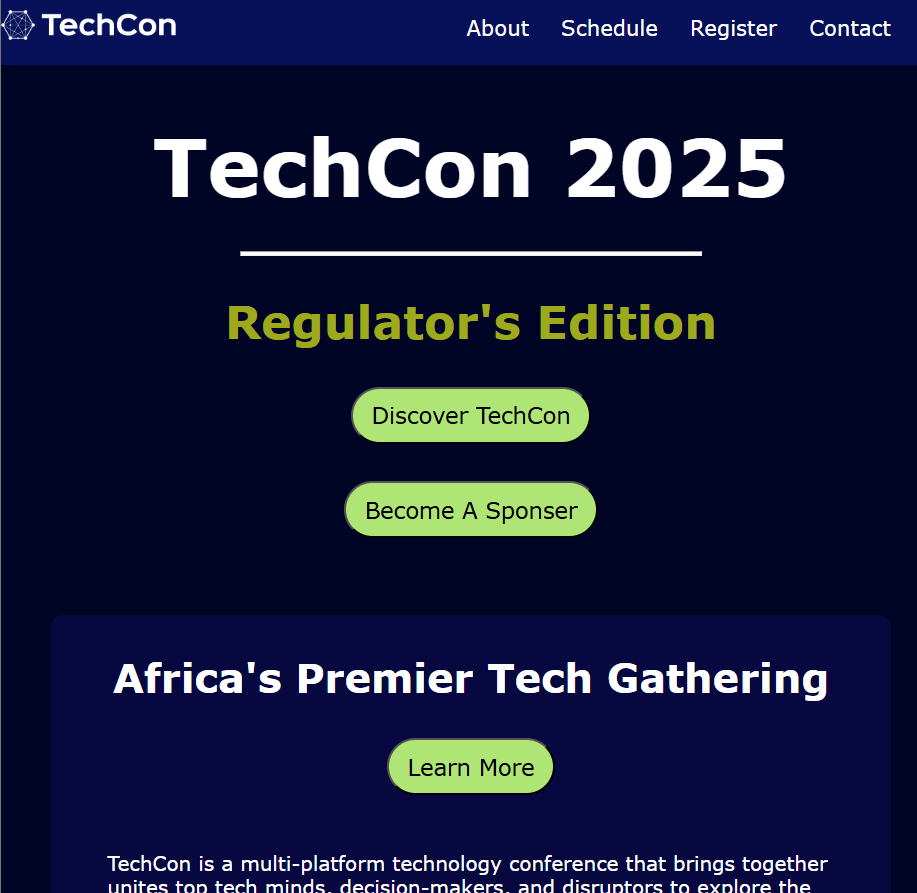
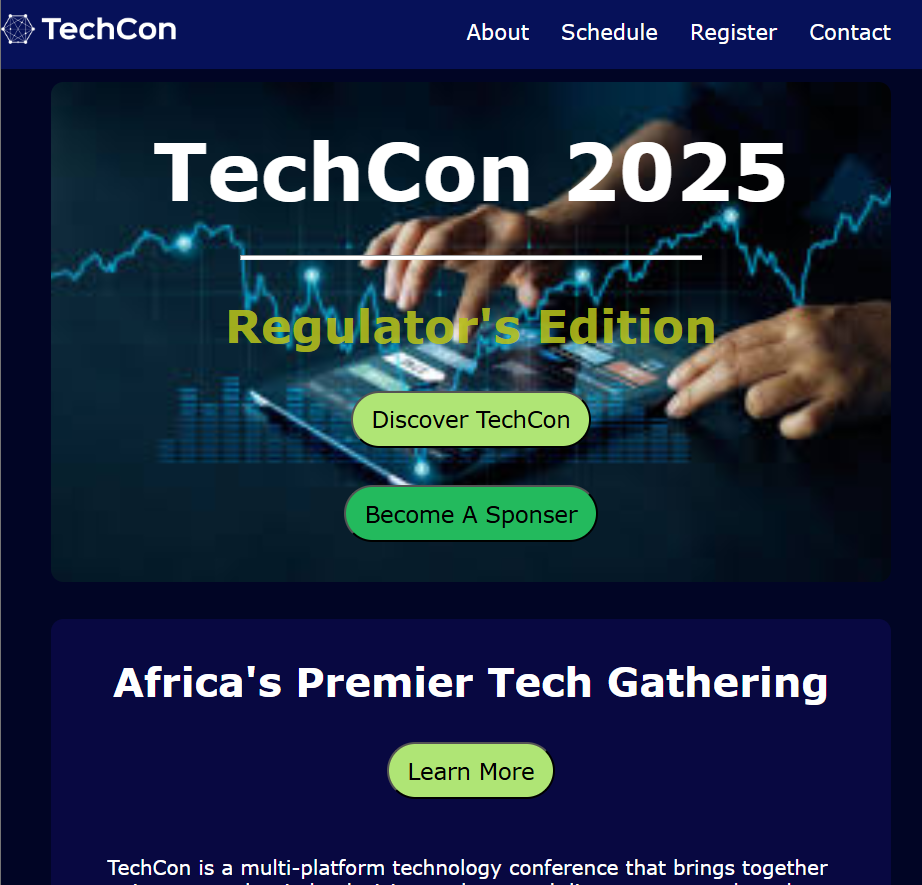
class Removed From Section index.html

diff --git a/techcon_website/vedio.css b/techcon_website/vedio.css
@@ -1,4 +1,4 @@
-.video-section {
+section:nth-child(3) {
             background: linear-gradient(135deg, #1e293b 0%, #334155 100%);
             border-radius: 16px;
             padding: 2.5rem;
@@ -6,7 +6,7 @@
             margin-bottom: 4rem;
         }
         
-        .video-section h2 {
+        section:nth-child(3) h2 {
             text-align: center;
             color: #e2e8f0;
             margin-bottom: 2.5rem;
@@ -14,7 +14,7 @@
             font-weight: 700;
         }
         
-        .video-card {
+         section:nth-child(3) video {
             background: #0f172a;
             border-radius: 12px;
             overflow: hidden;
@@ -22,11 +22,11 @@
             transition: transform 0.3s;
         }
         
-        .video-card:hover {
+         section:nth-child(3) video:hover {
             transform: translateY(-5px);
         }
         
-        .video-section h3 {
+     section:nth-child(3) h3 {
             color: #e2e8f0;
             padding: 20px;
             margin: 20px;

diff --git a/techcon_website/index.html b/techcon_website/index.html
@@ -23,14 +23,14 @@
       </nav>
     </header>
     <main>
-      <section class="section1">
+      <section>
         <h1>TechCon 2025</h1>
         <hr />
         <h2>Regulator's Edition</h2>
         <button>Discover TechCon</button>
         <button>Become A Sponser</button>
       </section>
-      <section class="section2">
+      <section>
         <h1>Africa's Premier Tech Gathering</h1>
         <button>Learn More</button>
         <p>
@@ -45,7 +45,7 @@
         </p>
       </section>
 
-      <section class="video-section">
+      <section>
         <h2>TechCon Promotional Videos</h2>
 
         <!-- Video 1 -->

diff --git a/techcon_website/style.css b/techcon_website/style.css
@@ -85,28 +85,28 @@ section{
      margin: 10px 40px;
       border-radius: 10px;
 }
-.section1{
-    background: url(bg.png);
+section:first-child{
+    background: url(assets/bg.png);
     background-size: cover;
    background-position: center;
     height: 400px;
    
 }
-.section1 h1{
+section:first-child h1{
     font-size: 4rem;
 }
-.section1 h2{
+section:first-child h2{
     font-size: 2.3rem;
     color:#b9c41bdb ;
 }
 
-.section2 {
+section:nth-child(2) {
   background: #080841;  
   margin-top: 30px;
   padding: 30px;
  
 }
-.section2 p{
+section:nth-child(2) p{
     padding: 15px;
     
 }
